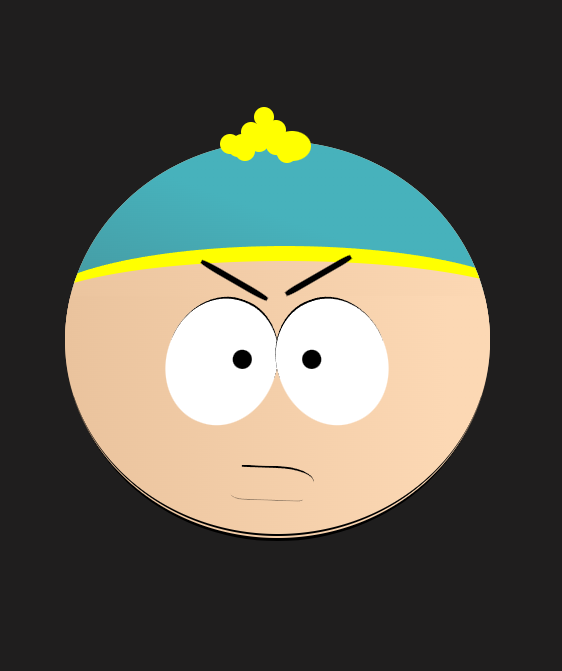
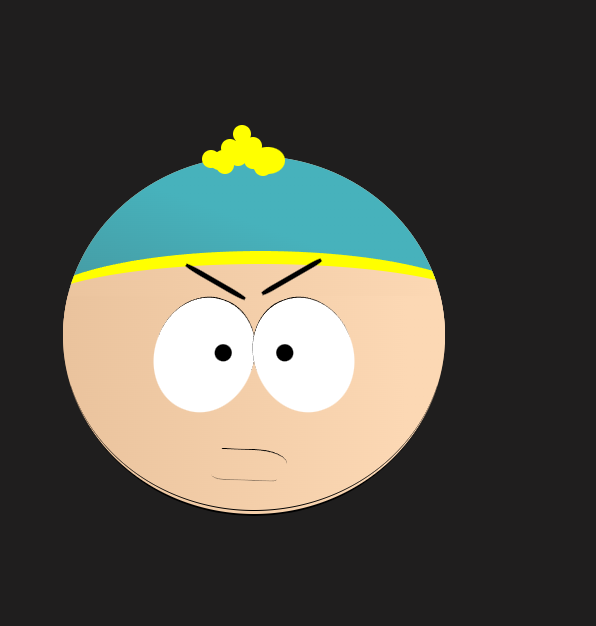
Update

diff --git a/Eric-Cartman/index.css b/Eric-Cartman/index.css
@@ -104,7 +104,7 @@ section{
 
 
 #head{
-    width: 465px;
+    width: 455px;
     height: 400px;
     background-image: var(--skin-color);
     border-radius: 50%;
